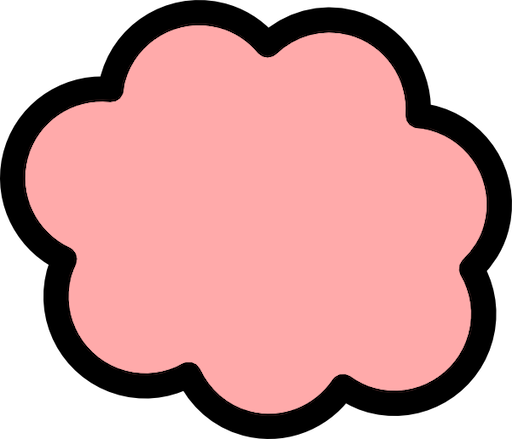
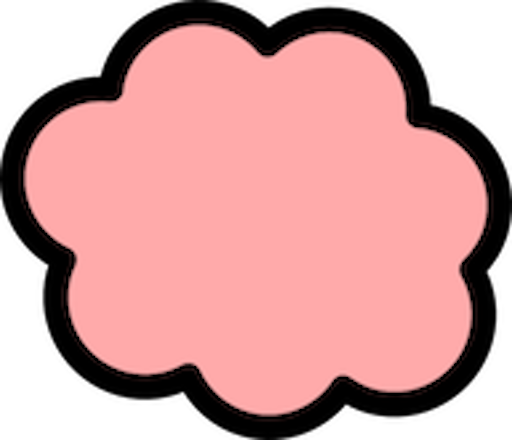
End

diff --git a/public/index.html b/public/index.html
@@ -3,10 +3,9 @@
   <head>
     <meta charset="utf-8" />
     <meta name="viewport" content="width=device-width, initial-scale=1" />
-    <!-- <link rel="icon" href="%PUBLIC_URL%/favicon.ico" />
-    <link rel="manifest" href="%PUBLIC_URL%/manifest.json" /> -->
+
+    <link rel = "icon" href = "img/cloud.png" / >
     <link rel = "apple-touch-icon" href = "img/apple-touch-icon.png" /> 
-    <link rel  = "apple-112" href = "img/apple-112.png" /> 
     <link rel="manifest" href="manifest.json" /> 
     <title> Classy Weather </title>
   </head>
